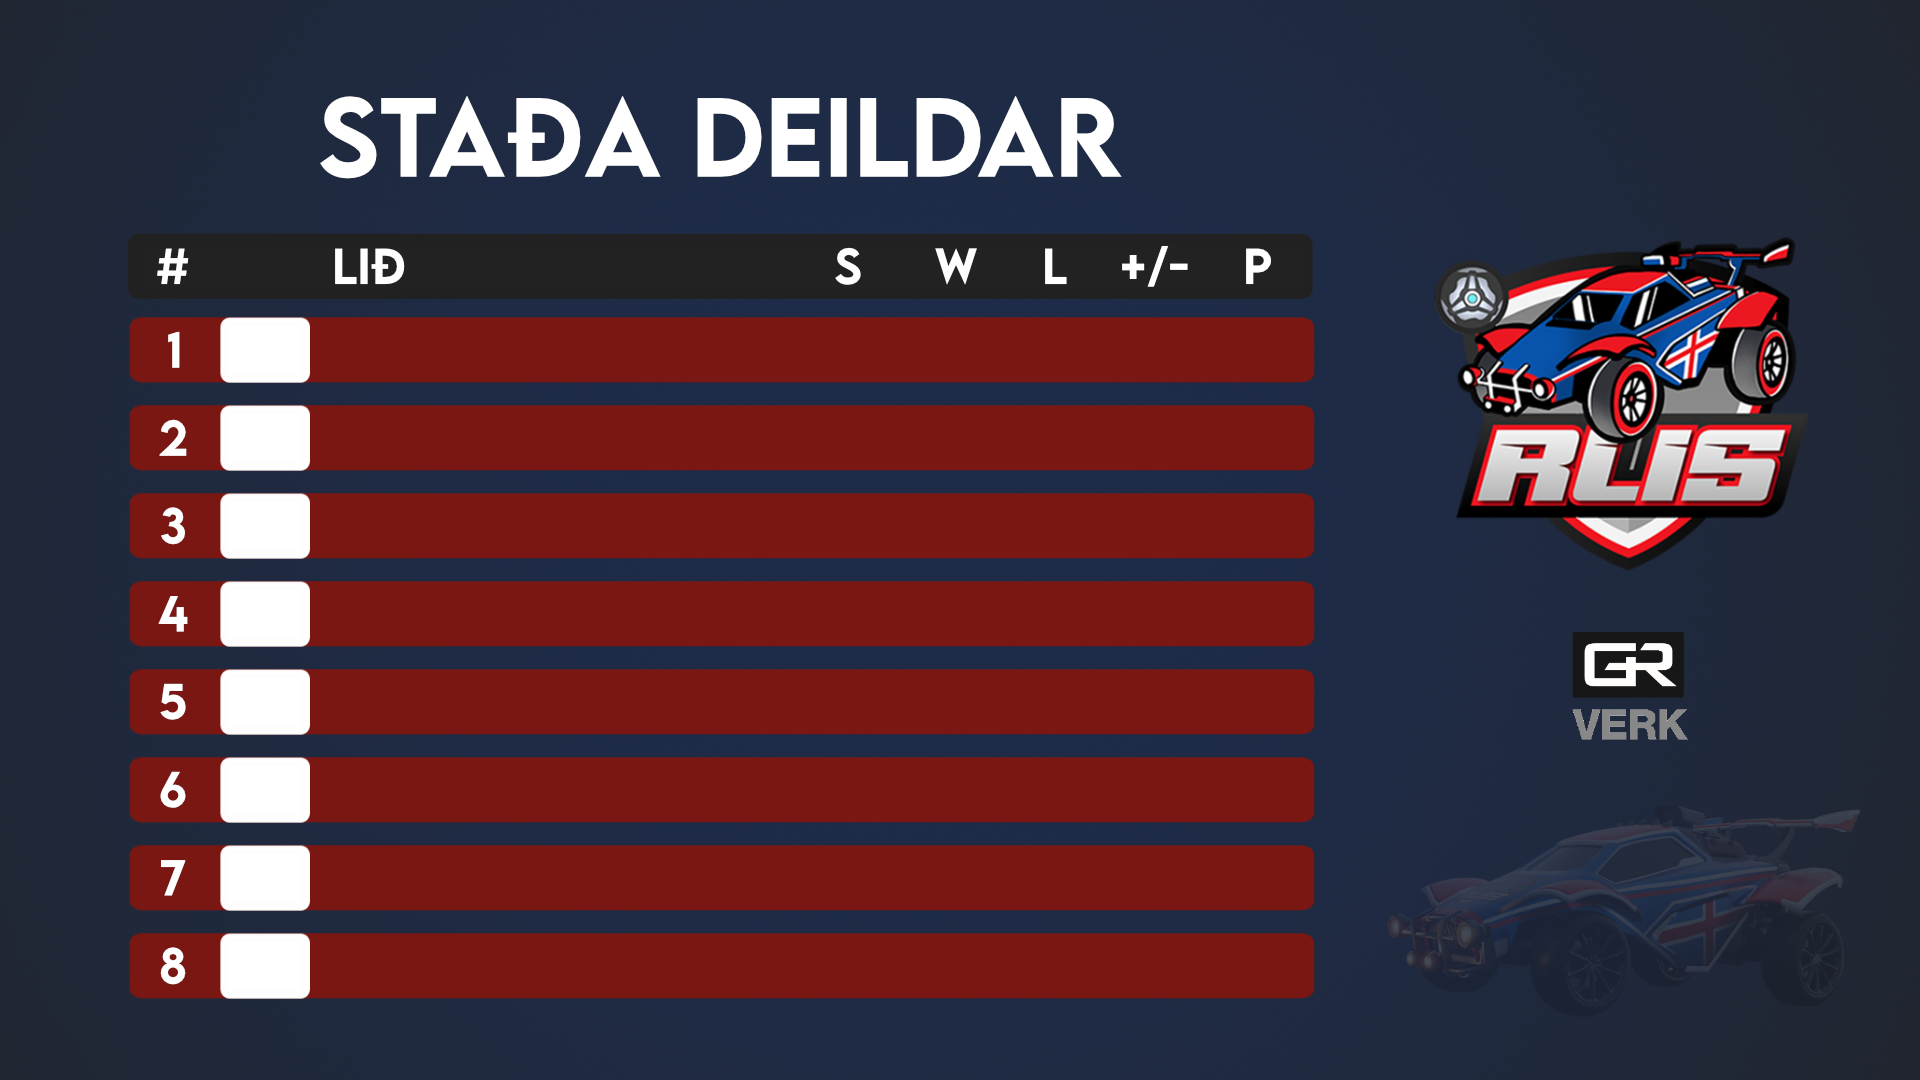
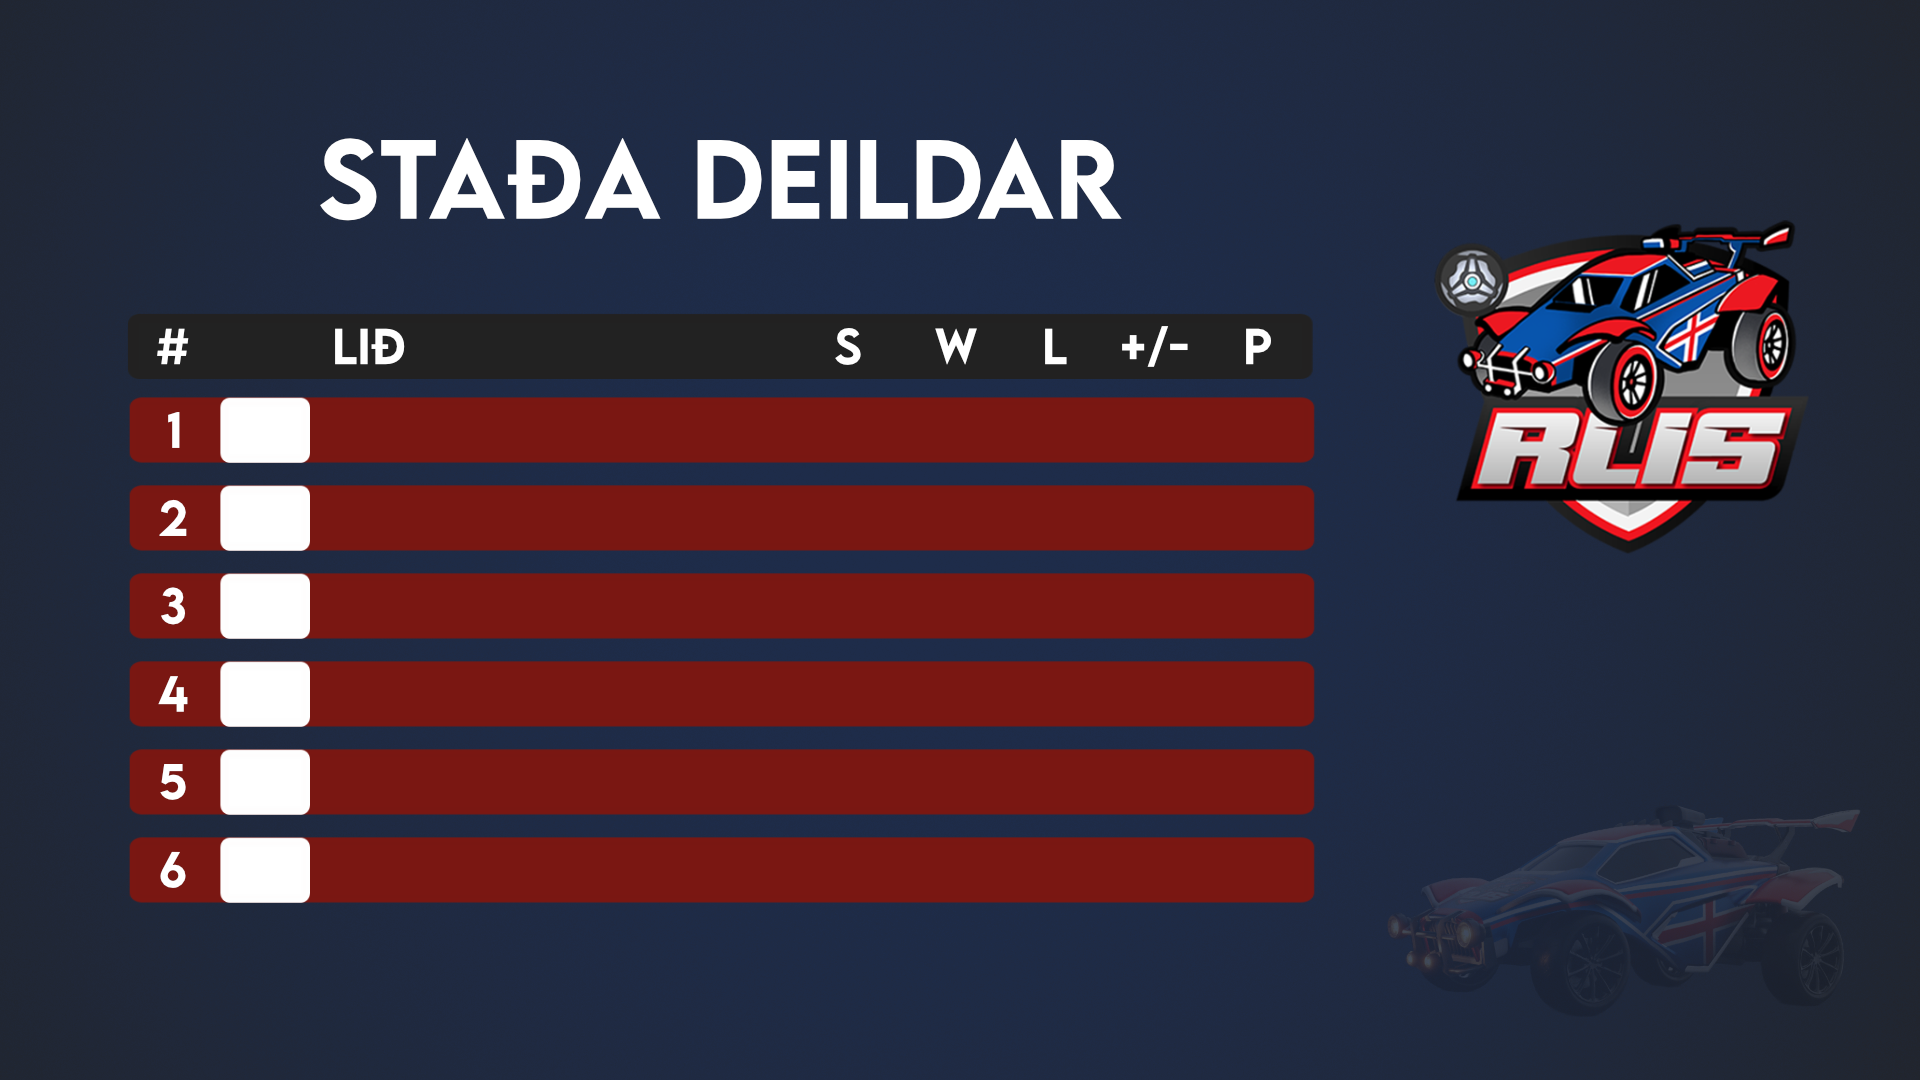
season 8 look adjustment for games on stream and current standing

Changed region(s): [[0.0625, 0.0917, 0.6875, 0.9472], [0.75, 0.1833, 0.9375, 0.5194], [0.8125, 0.5806, 0.875, 0.7028]]

diff --git a/src/components/CurrentStanding/CurrentStanding.js b/src/components/CurrentStanding/CurrentStanding.js
@@ -60,7 +60,7 @@ class CurrentStanding extends Component {
   render() {
 
     let standings = null
-    if (this.state.currentStanding && this.state.currentStanding.length === 8) {
+    if (this.state.currentStanding && this.state.currentStanding.length === 6) {
       standings = (
         <div>
           <DragDropContext onDragEnd={(...props) => {console.log(props)}}>

diff --git a/src/components/CurrentStandingEdit/CurrentStandingEdit.js b/src/components/CurrentStandingEdit/CurrentStandingEdit.js
@@ -141,7 +141,7 @@ class CurrentStandingEdit extends Component {
   render() {
 
     let standings = null
-    if (this.state.currentStanding && this.state.currentStanding.length === 8) {
+    if (this.state.currentStanding && this.state.currentStanding.length === 6) {
       standings = (
         <div>
           <DragDropContext onDragEnd={(params) => {

diff --git a/src/components/CurrentStanding/CurrentStanding.module.css b/src/components/CurrentStanding/CurrentStanding.module.css
@@ -6,7 +6,7 @@
   font-family: "LEMONMILK";
   font-size: 45px;
   color: white;
-  padding-top: 320px;
+  padding-top: 401px;
 }
 
 .StandingsRow {

diff --git a/src/components/CurrentStandingEdit/CurrentStandingEdit.module.css b/src/components/CurrentStandingEdit/CurrentStandingEdit.module.css
@@ -6,7 +6,7 @@
   font-family: "LEMONMILK";
   font-size: 45px;
   color: white;
-  padding-top: 320px;
+  padding-top: 401px;
 }
 
 .StandingsRow {
